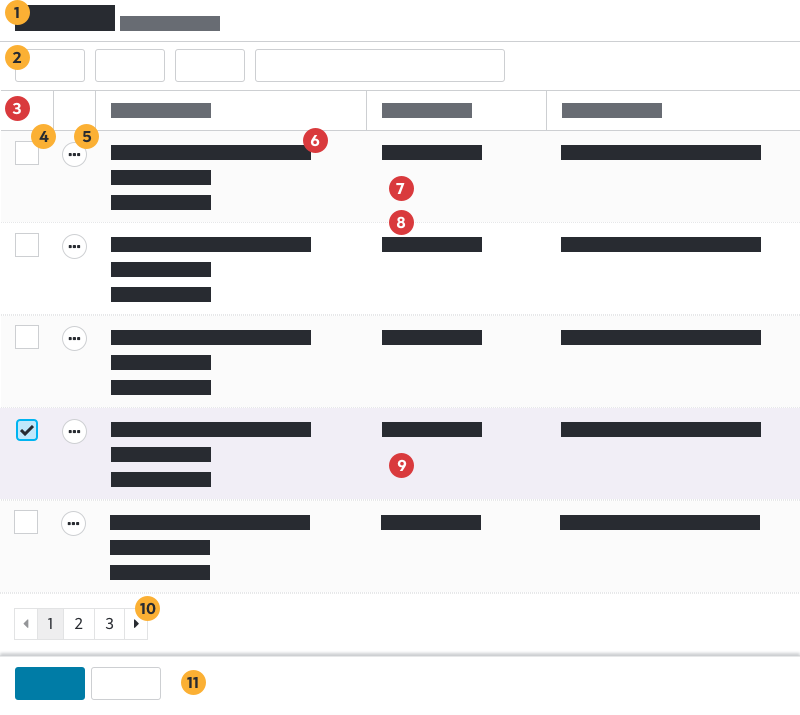
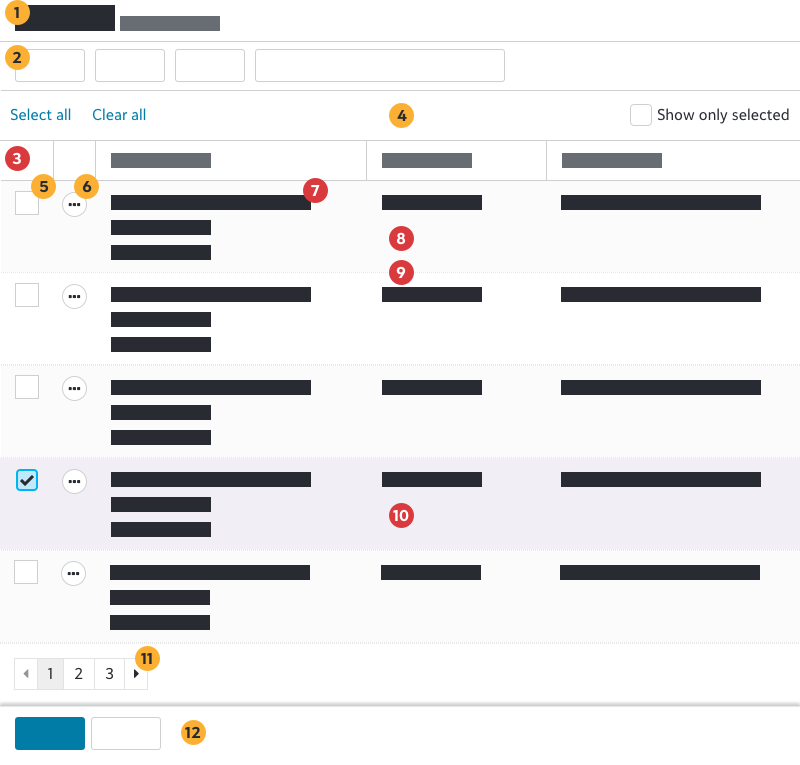
additional cleanup

diff --git a/src/app/components/flyout/flyout-guidelines.component.html b/src/app/components/flyout/flyout-guidelines.component.html
@@ -15,7 +15,7 @@
 	
 	<stache-row>
     <stache-column screenSmall="6">
-			<p>Use a flyout to open records in a list so that users can return to the list view after completing quick tasks on the record pages. If the user will always need a full-screen view of details, such as expanded views of tiles, navigate to a full page instead.</p>
+			<p>Use a flyout to open records in a list so that users can return to the list view after completing quick tasks on the record pages. If the user will need a full-screen view of details or will be taking multiple actions on the record, navigate to a full page instead.</p>
 		</stache-column>
 		<stache-column screenSmall="6">
 			<div class="screenshot screenshot-success">
@@ -127,7 +127,7 @@
 	
 	<stache-row>
     <stache-column screenSmall="6">
-			<p>Do not use a flyout for tasks where users always need a full-screen view of details, such as expanded views of tiles. Navigate to a full page instead.</p>
+			<p>Do not use a flyout for tasks where users will need a full-screen view of details or will be taking multiple actions within the view. Navigate to a full page instead.</p>
 		</stache-column>
 		<stache-column screenSmall="6">
 			<div class="screenshot screenshot-danger">

diff --git a/src/app/components/grid/index.html b/src/app/components/grid/index.html
@@ -258,6 +258,9 @@
 						<span class="sky-deemphasized">Toolbar (optional)</span>
 					</li>
 					<li>
+						<span class="sky-deemphasized">Multiselect toolbar (optional)</span>
+					</li>
+					<li>
 						Header row
 					</li>
 					<li>
@@ -321,6 +324,7 @@
 			<ul>
 				<li>The list is presented in a tile, page section, or other container that might flow off the screen.</li>
 			</ul>
+			<p>Include the multiselect toolbar to allow users to select or clear all items and optionally view only the selected items.</p>
       <p>When users select rows, the summary action bar should fly in from the bottom of the page. Place actions that can be taken on the selected items in the summary action bar.</p>
 		</stache-column>
 		<stache-column screenSmall="6">

diff --git a/src/app/components/summary-actionbar/index.html b/src/app/components/summary-actionbar/index.html
@@ -84,6 +84,7 @@
   <stache-row>
     <stache-column screenSmall="6">
 			<p>Actions that can be taken on multiple items in a list of items.</p>
+			<p>When used with a multiselect list, hide the summary action bar until the user selects an item in the list. Once an item is selected the summary action bar should fly in from the bottom of the page.</p>
 		</stache-column>
 		<stache-column screenSmall="6">
 			<div class="screenshot screenshot-success">
